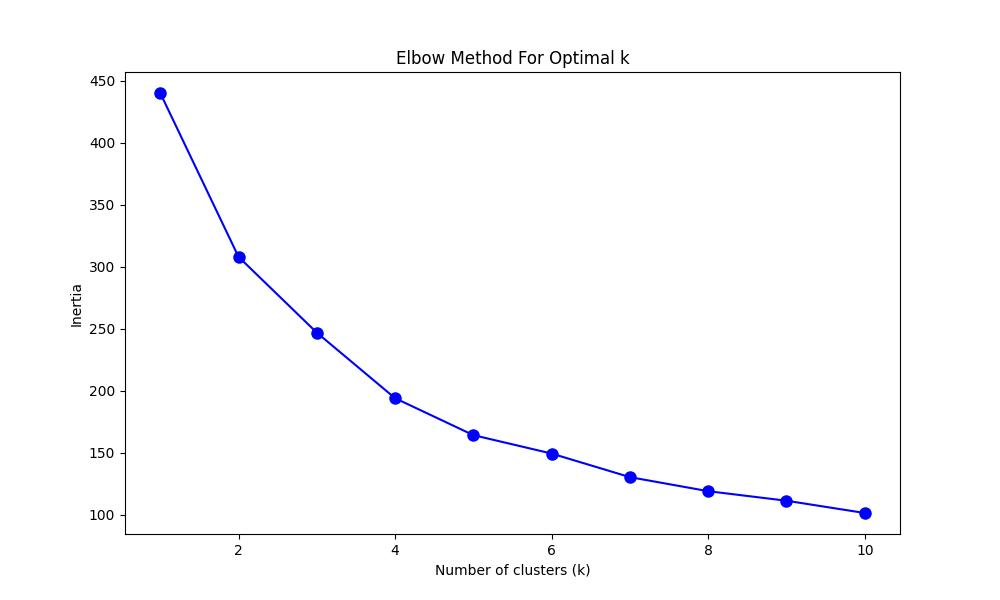
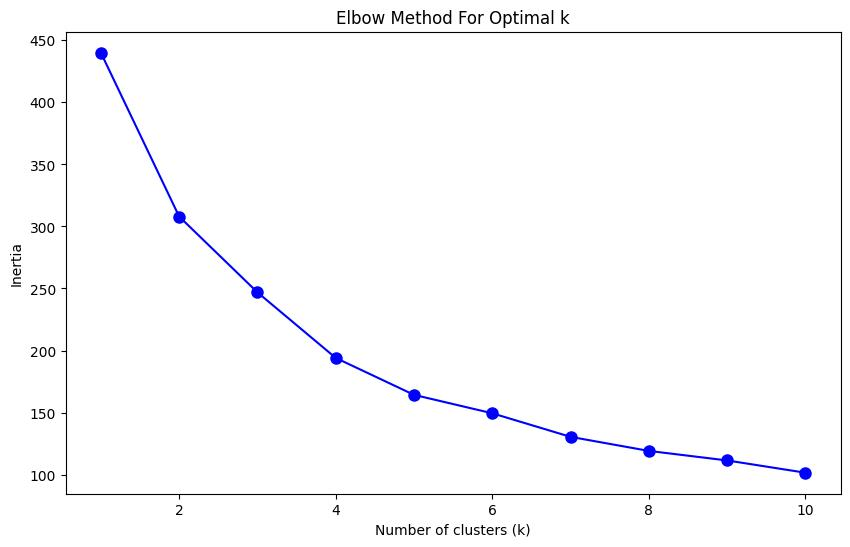
changed modelling to PCA

diff --git a/model.py b/model.py
@@ -1,51 +1,47 @@
 import pandas as pd
-import numpy as np 
+import numpy as np
+from sklearn.decomposition import PCA
 import matplotlib.pyplot as plt
 
-years = [2012, 2015, 2016, 2017, 2018,2019,2020,2021,2022,2023]
+df_total = pd.read_csv('filtered.csv', index_col=0)
+df = df_total.loc[[2014,2015,2016,2017,2018,2019,2021,2022,2023]]
+# Standardize the data
+standardized_data = (df - df.mean()) / df.std()
 
-df = pd.read_csv('filtered.csv', index_col = 0)
-columns = df.columns
-happiness_df = pd.read_csv('Happiness Index.csv', index_col = 0)
+# Apply PCA
+pca = PCA()
+pca.fit(standardized_data)
 
-from sklearn import linear_model
-clf = linear_model.LinearRegression()
-
-X = []
-y = []
-for year in years:
-    X.append(df.loc[year, :].values.tolist())
-    happiness = happiness_df.loc[year, :].values.tolist()[0]
-    happiness = (7 - happiness) * 100
-    y.append(happiness)
-
-clf = linear_model.LinearRegression()
-clf.fit(X,y)
+explained_variance = np.cumsum(pca.explained_variance_ratio_)
+num_components = np.argmax(explained_variance >= 0.95) + 1
 
 
-from sklearn.metrics import mean_squared_error, r2_score
-predictions = clf.predict(X)
-mse = mean_squared_error(y, predictions)
-r2 = r2_score(y, predictions)
-print(df.columns.tolist())
-print("Coefficients:", clf.coef_)
-print("Intercept:", clf.intercept_)
-print("Mean Squared Error:", mse)
-print("R² Score:", r2)
-print("Predictions:", predictions)
+pca = PCA(n_components=num_components)
+principal_components = pca.fit_transform(standardized_data)
+composite_index = principal_components.sum(axis=1)
 
-df_2024 = pd.read_csv('2024.csv', index_col=0)
-data = df_2024.loc[2024].values
-prediction = clf.predict([data])[0]
-predicted_index = 7-prediction/100
-print(predicted_index)
 
-happiness_indices = happiness_df.loc[years].values
-plt.plot(years, happiness_indices, marker = 'o', label = 'Actual Happiness Index')
-plt.plot(2024, predicted_index, 'ro', label = 'Predicted Index in 2024')
+components = pca.components_
+
+weights = np.sum(components, axis=0)
+
+weights /= np.sum(np.abs(weights))
+
+feature_weights = pd.Series(weights, index=df.columns)
+print("Feature Weights:")
+print(feature_weights)
+feature_weights.to_csv('weights.csv')
+
+
+df['Composite Index'] = composite_index
+df_2020 = df_total.loc[2020]
+df_2020 = (df_2020 - df_2020.mean()) / df_2020.std()
+
+
+plt.figure(figsize=(12, 6))
+plt.plot(df.index, df['Composite Index'], "bo-", label='Composite Index')
+plt.title('Economic Composite Index')
+plt.xlabel('Time')
+plt.ylabel('Composite Index')
 plt.legend()
-plt.savefig('figures/happiness index.jpg')
-plt.close()
-
-
-
+plt.savefig('figures/model.jpg')

diff --git a/kmeans.py b/kmeans.py
@@ -28,7 +28,7 @@ plt.plot(K, inertia, "bo-", markersize=8)
 plt.xlabel('Number of clusters (k)')
 plt.ylabel('Inertia')
 plt.title('Elbow Method For Optimal k')
-plt.savefig('./figures/elbow.jpg')
+plt.savefig('./figures/elbow.jpg', bbox_inches="tight")
 plt.close()
 
 
@@ -58,5 +58,5 @@ plt.title('PCA Clusters')
 for i in range(pca_df.shape[0]):
     plt.annotate(pca_df['Year'].iloc[i], (pca_df['PC1'].iloc[i], pca_df['PC2'].iloc[i]), 
                  fontsize=6)
-plt.savefig('./figures/clusters_annotated.jpg')
+plt.savefig('./figures/clusters_annotated.jpg', bbox_inches="tight")
 plt.close() 
